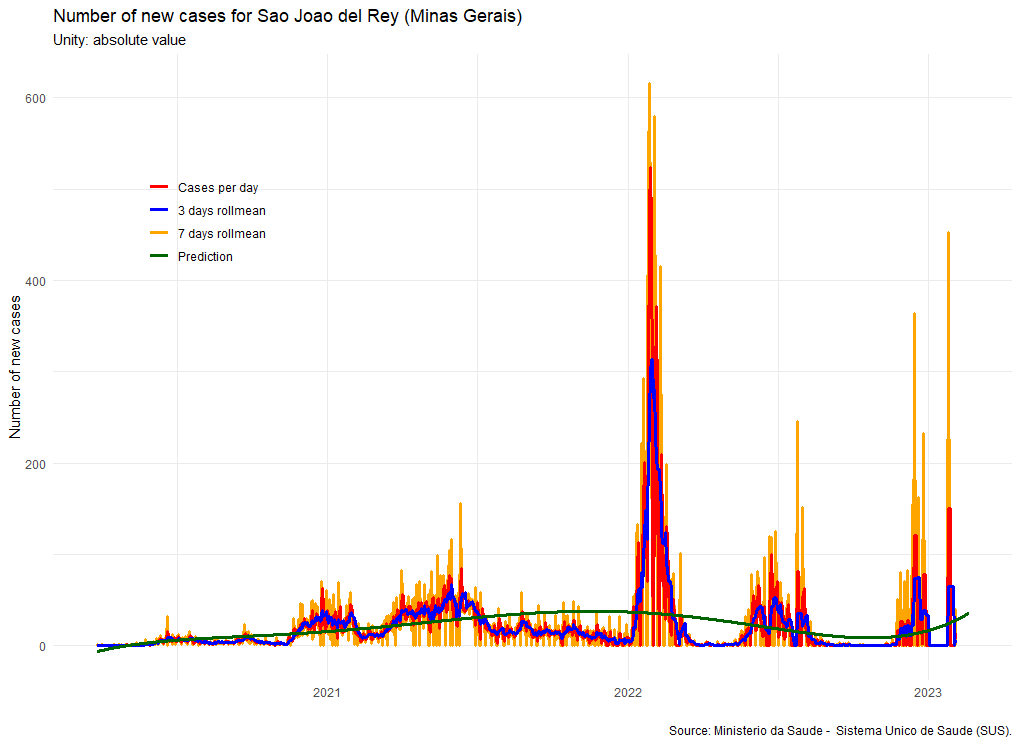
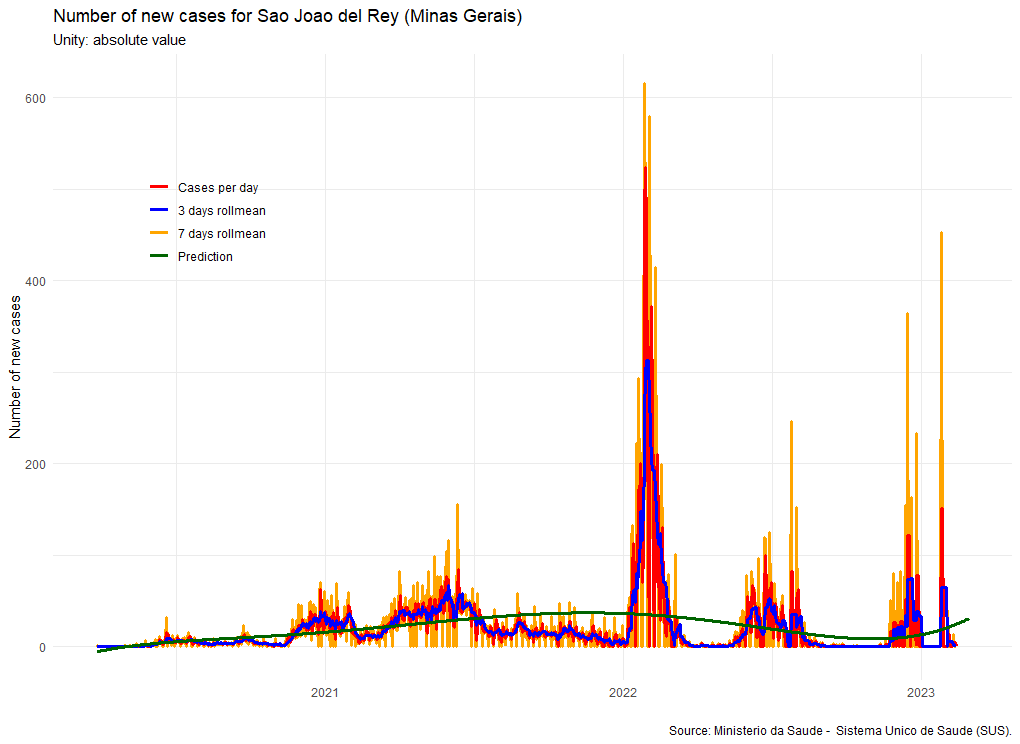
Update README file

diff --git a/README.md b/README.md
@@ -232,7 +232,7 @@ cases, respectively, for Brazil and for the municipality of Sao Joao del
 Rey (belonging to the state of Minas Gerais), a 3-day moving average, a
 7-day moving average and the forecast, obtained by polynomial
 interpolation of degree 5, covering the entire period plus 15 days (last
-day of observed data is 2023-02-04).
+day of observed data is 2023-02-13).
 
 <img src="man/figures/predCases.png" width="100%" />  
 
@@ -267,7 +267,7 @@ caused by Covid-19, respectively, for Brazil and for the municipality of
 Sao Joao del Rey (belonging to the state of Minas Gerais), a 3-day
 moving average, a 7-day moving average and the forecast, obtained by
 polynomial interpolation of degree 5, covering the entire period plus 15
-days (last day of observed data is 2023-02-04).
+days (last day of observed data is 2023-02-13).
 
 <img src="man/figures/predDeaths.png" width="100%" />  
 
